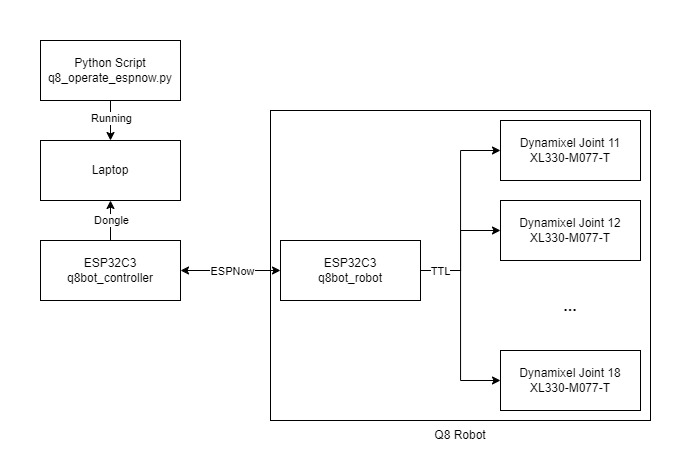
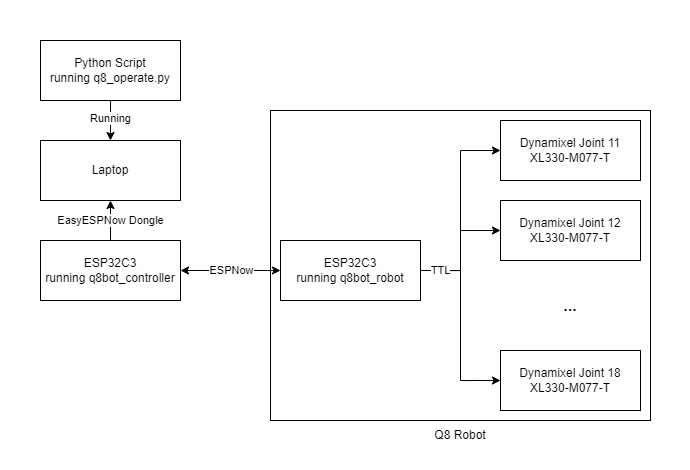
Updated instructions and readme

diff --git a/README.md b/README.md
@@ -4,12 +4,14 @@ Q8bot is a miniature quadruped robot powered by 8 Dynamixel motors and a Seeed S
 
 The robot weighs around 221g and is capable of dynamic movements like jumping and various gaits (WIP). It also has no wires and cables - everything is directly plugged into the center PCB, greatly reducing complexity, weight, and cost.
 
-The current BOM, without optimization, is about $300. 
+The current BOM, without optimization, starts below $300. 
 
 [![Q8bot](documentation_public/Q8bot_Rev2_Hero.jpeg)](https://youtu.be/YJDc1xAhaOI)
 
-![Q8bot](documentation_public/Jumping_Sequence.jpg)
-
+<p align="center">
+  <img src="documentation_public/10s_gif.gif" alt="Image 1" width="48.5%" style="margin-right: 1%;">
+  <img src="documentation_public/Q8bot_Weight.jpg" alt="Image 2" width="48.5%" style="margin-left: 1%;">
+</p>
 
 ## Design Files
 
@@ -17,28 +19,92 @@ The current BOM, without optimization, is about $300.
 
 Q8bot is 99% open source: In this repo, you will find everything you need - STEP, STL, Gerber, Schematics, BOM, and more - to build your own version. 
 
-You can now ordered the fully-assembled PCB via PCBWay! The following project page I created contains all of the assembly-related files (BOM, centroid, etc.) and simplifies the ordering process: https://www.pcbway.com/project/shareproject/Q8bot_PCB_Robot_dfa65114.html
+You can now ordered the fully-assembled PCB via PCBWay! This [project page](https://www.pcbway.com/project/shareproject/Q8bot_PCB_Robot_dfa65114.html) contains all of the assembly-related files (BOM, centroid, etc.) and simplifies the ordering process.
+
+<p align="center">
+    <a href="https://www.pcbway.com/project/shareproject/Q8bot_PCB_Robot_dfa65114.html"><img src="https://www.pcbway.com/project/img/images/frompcbway-1220.png" alt="PCB from PCBWay" /></a>
+</p>
 
 Although I do not plan to constantly maintain this project due to availability, feel free to reach out with questions and I will try my best to answer: yufeng.wu0902@gmail.com 
 
-Checkout the bill of materials (BOM) here:
-https://docs.google.com/spreadsheets/d/1M1K_Dghia-Mn2t4RStW8juN6r4e3I3OBy6M_fPFHzs8/edit?usp=sharing
+Access the bill of materials (BOM) **[here](https://docs.google.com/spreadsheets/d/1M1K_Dghia-Mn2t4RStW8juN6r4e3I3OBy6M_fPFHzs8/edit?usp=sharing)**. Build the optional EasyESPNow dongle for easier robot control by following instructions [here](https://github.com/EricYufengWu/EasyESPNow). This is not included in the main BOM as there are other ways to control Q8bot (WiFi, BLE, etc.)
 
 [![Q8bot](documentation_public/Q8bot_Rev2_Render.png)](https://autode.sk/3BYuhuN)
 
 [![Q8bot](documentation_public/Q8bot_Components.jpeg)](https://docs.google.com/spreadsheets/d/1M1K_Dghia-Mn2t4RStW8juN6r4e3I3OBy6M_fPFHzs8/edit?usp=sharing)
 
+## Building Instructions
 
-## Software Architecture
+While there are no detailed building instruction for Q8bot yet, you can use the YouTube video with the following simplified steps as reference:
+1. Obtain all components folling the bill of materials (BOM), including the PCB and 3D-printed parts.
 
-Please excuse my messy code as I am a mechanical engineer by training :)
+2. Solder SMD and THT components to the PCB (skip if using PCBWay's assembly service).
 
-Currently, all computation regarding gait generatio and FK/IK happens on the laptop. The laptop talks to the robot remotely via an ESP32C3 Microcontroller dongle, sending raw joint angles as rapidly as possible using the ESPNow protocol.
+3. Install battery clips to the Q8bot_Frame 3D-printed part. Verify their locations as this is important for battery polarity. Secure both copies of Q8bot_Frame to the PCB with screws and Solder the battery clips to the PCB.
 
-![Flowchart](documentation_public/High_Level_Flowchart.jpg)
+4. If you are using brand-new Dynamixel actuators, they need to individually configured. There are 2 ways to do this:
+
+    1. Manually: If you have an [U2D2 Hub](https://www.robotis.us/u2d2) from Robotis, you can use the [Dynamixel Wizard](https://emanual.robotis.com/docs/en/software/dynamixel/dynamixel_wizard2/) tool to configure each motor prior to attaching them during assembly. Follow [this instruction](documentation_public/DXL_config_manual.md). ,<br>
+    2. Automatically: upload and run the motor initialization code on the Seeed Studio XIAO and follow the instructions on the serial monitor. **This is still WIP**. If you don't have an U2D2 you can try to write your own set of instructions to change the parameters (you can follow examples in the [Dynamixel2Arduino library](https://github.com/ROBOTIS-GIT/Dynamixel2Arduino)).
+
+5. Once all motors are configured and installed, it is recommended to go through the software setup and power up the robot without legs first to ensure correct joint configuration. Please go through Software Setup before returning to step 6.
+
+6. Build individual leg linkages following the YouTube video. Note that two legs on each sides are identical and the left/right pairs should be mirrored.
+
+7. Power up the robot again with its legs attached, and have fun!
+
+
+## Software Setup
+
+Please excuse my messy code as I am a mechanical engineer by training :D
+
+Currently, all computation regarding gait generation and FK/IK happens on the laptop. The laptop talks to the robot remotely via another Seeed Studio XIAO ESP32C3, sending raw joint angles as rapidly as possible using the ESPNow protocol. In the future, the hope is to move the gait generation code to the robot's onboard ESP32 for improved control.
+
+<p align="center">
+    <img src="documentation_public/High_Level_Flowchart.jpg" alt="High level flowchart" width="60%">
+</p>
+
+### Seeed Studio XIAO MCU Setup (Robot + Controller)
+
+The microcontroller part of the code is developed in [PlatformIO](https://platformio.org/). If you haven't used it before, please refer to official documentation and tutorials to setup the environment.
+
+Open the folder "q8bot_robot" with PlatformIO and upload it to Q8bot's XIAO board.
+
+Currently, Q8bot uses another ESP32C3 connected to the host PC/laptop. Whether you are using the additional XIAO board as is or in its [dongle form](https://github.com/EricYufengWu/EasyESPNow), you need to open the folder "q8bot_controller" with PlatformIO and upload it to the controller board.
+
+The MAC address in the controller's code need to be modified to match the address of your robot board.
+
+### Python Setup
+Navigate to the `/q8bot_python` folder and run:
+
+    pip install -r requirements.txt
+
+This will install necessary dependencies (there aren't alot so you mey have already had all libraries installed).
+
+Modify the COM port value in `/q8bot_python/q8bot/q8_operate.py` to match the COM port of your controller board.
+
+    PORT = 'COM6' 
+
+### Running the Robot
+Attach the batteries to the robot (double-check polarity!). Power on the robot with the onboard slide switch and you should see the onboard LED light up.
+
+Plug in the controller board to your laptop/PC.
+
+Navigate to `/q8bot_python/q8bot` folder and run:
+
+    python q8_operate.py
+
+If everything works, you should see a small pygame window pop up and the robot move its joints to their initial location. Robot keyboard control instructions are as follows:
+- WASD for robot movement.
+- J for jumping.
+- Keyboard up and down for adjusting robot stance.
+- "+" and "-" for adjusting stride size.
+
+## Appendix
 
 Here's a rough overview to the logic behind the python script (might not be accurate as I keep adding features)
 
 ![alt text](documentation_public/Python_Flowchart.jpg)
+
 
 

diff --git a/documentation_public/DXL_config_manual.md b/documentation_public/DXL_config_manual.md
@@ -1,0 +1,75 @@
+# Manual Dynamixel Motor Configuration
+
+## Identify the front of the robot:
+The "Front" silkscreen marking on the front side of the PCB is the front of the actual robot. When the robot is pointing forward, the Seeed XIAO board and most of the electronics are facing left.
+
+![Q8bot](dxl_manual_setup.png)
+
+## Robot joint assignment
+**Note: J1-J8 markings on the PCB are for the PCB only. For the remaining of this doc, please follow the robot image above for actual joint assignment.**
+
+Using Dynamixel Wizard 2.0 and an U2D2 hub, configure each motor's ID, baudrate, and other parameters before mounting them to the robot.
+
+J1 (front left vertical, FLV): <br>
+ID = 11<br>
+Baud Rate = 1000000<br>
+Drive Mode = Time-based Profile<br>
+Operating Mode = Extended Position control<br>
+Homing Offset = 2048<br>
+**(Only applies when mounting the legs)** When linkage points forward, position should read 360.<br>
+
+J2 (front left horizontal, FLH):<br>
+ID = 12<br>
+Baud Rate = 1000000<br>
+Drive Mode = Time-based Profile<br>
+Operating Mode = Extended Position control<br>
+Homing Offset = 4096<br>
+When linkage points downward, position should read 450.<br>
+
+J3 (front right vertical, FRV): <br>
+ID = 13<br>
+Baud Rate = 1000000<br>
+Drive Mode = Time-based Profile, Reverse mode<br>
+Operating Mode = Extended Position control<br>
+Homing Offset = 2048<br>
+When linkage points forward, position should read 360.<br>
+
+J4 (front right horizontal, FRH):<br>
+ID = 14<br>
+Baud Rate = 1000000<br>
+Drive Mode = Time-based Profile, Reverse mode<br>
+Operating Mode = Extended Position control<br>
+Homing Offset = 4096<br>
+When linkage points downward, position should read 450.<br>
+
+J5 (back left horizontal, BLH): <br>
+ID = 15<br>
+Baud Rate = 1000000<br>
+Drive Mode = Time-based Profile<br>
+Operating Mode = Extended Position control<br>
+Homing Offset = 2048<br>
+When linkage points forward, position should read 360.<br>
+
+J6 (back left vertical, BLV):<br>
+ID = 16<br>
+Baud Rate = 1000000<br>
+Drive Mode = Time-based Profile<br>
+Operating Mode = Extended Position control<br>
+Homing Offset = 4096<br>
+When linkage points downward, position should read 450.<br>
+
+J7 (bask right horizontal, BRH): <br>
+ID = 17<br>
+Baud Rate = 1000000<br>
+Drive Mode = Time-based Profile, Reverse mode<br>
+Operating Mode = Extended Position control<br>
+Homing Offset = 2048<br>
+When linkage points forward, position should read 360.<br>
+
+J8 (back right vertical, BRV):<br>
+ID = 18<br>
+Baud Rate = 1000000<br>
+Drive Mode = Time-based Profile, Reverse mode<br>
+Operating Mode = Extended Position control<br>
+Homing Offset = 4096<br>
+When linkage points downward, position should read 450.<br>

diff --git a/q8bot_python/README.md b/q8bot_python/README.md
@@ -1,10 +1,10 @@
-# q8bot
- Q8 Robot
+# Q8bot python setup
 
-## Setup Instruction
+
+<!-- ## Setup Instruction
 Install dynamixel_sdk for python following this [instruction](https://emanual.robotis.com/docs/en/software/dynamixel/dynamixel_sdk/library_setup/python_windows/#python-windows)
 
-For me, I set up dynamixel_sdk AFTER activating the venv of this project to make sure the library only applies here.
+For me, I set up dynamixel_sdk AFTER activating the venv of this project to make sure the library only applies here. -->
 
 ## Python venv instructions
 
